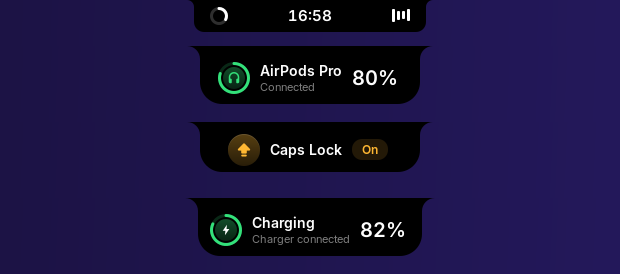
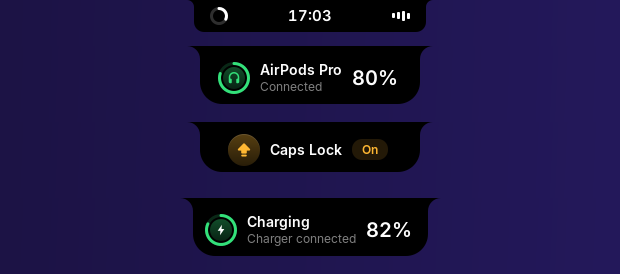
Release 0.4.0
Reminders beside the focus timer, Reminders closer to macOS, slimmer alerts, an island that opens
only when the pointer rests on it, and resizes that settle without a wobble.

diff --git a/CHANGELOG.md b/CHANGELOG.md
@@ -6,6 +6,39 @@ All notable changes to Isle are listed here. The format follows
 
 ## [Unreleased]
 
+## [0.4.0] - 2026-10-22
+
+### Added
+
+- A **settings gear** in the open island's header, beside the clock.
+
+### Changed
+
+- **Focus and Reminders share one page**: the timer on the left, today's
+  reminders on the right, so what to work on sits beside the time to work
+  on it. The header has one tab fewer; this page is a little wider than the
+  others to fit both.
+- **Reminders** look closer to macOS's: an orange title with the number
+  still open, a thin ring per reminder that fills with an orange dot when
+  ticked, the title struck through at once, then the row folds away; a
+  last "New Reminder" row to add one. Four whole rows show before the list
+  scrolls.
+- **Alerts are slimmer**: as tall as their text (one line or two), with a
+  smaller badge and tighter type, so a short alert wastes no room.
+- The island opens when the pointer **rests** on it; passing over it on the
+  way to the clock or a menu leaves it closed.
+
+### Fixed
+
+- The island no longer flickers open and closed when the pointer passes
+  over the top bar, or when it shrinks under a still pointer after
+  switching to a narrower page.
+- Opening, closing and resizing settle cleanly, with no one-pixel wobble at
+  the end, and stop drawing sooner.
+- Closing the island right after ticking a reminder no longer leaves the
+  list frozen; the reminder stays done.
+- The volume alert no longer repeats "Volume" under its title.
+
 ## [0.3.0] - 2026-10-21
 
 ### Added
@@ -264,7 +297,8 @@ The first release.
   dark, vivid ones bright.
 - Text is at least 12 px throughout.
 
-[Unreleased]: https://github.com/zickrian/isle/compare/v0.3.0...HEAD
+[Unreleased]: https://github.com/zickrian/isle/compare/v0.4.0...HEAD
+[0.4.0]: https://github.com/zickrian/isle/compare/v0.3.0...v0.4.0
 [0.3.0]: https://github.com/zickrian/isle/compare/v0.2.0...v0.3.0
 [0.2.0]: https://github.com/zickrian/isle/compare/v0.1.2...v0.2.0
 [0.1.2]: https://github.com/zickrian/isle/compare/v0.1.1...v0.1.2
